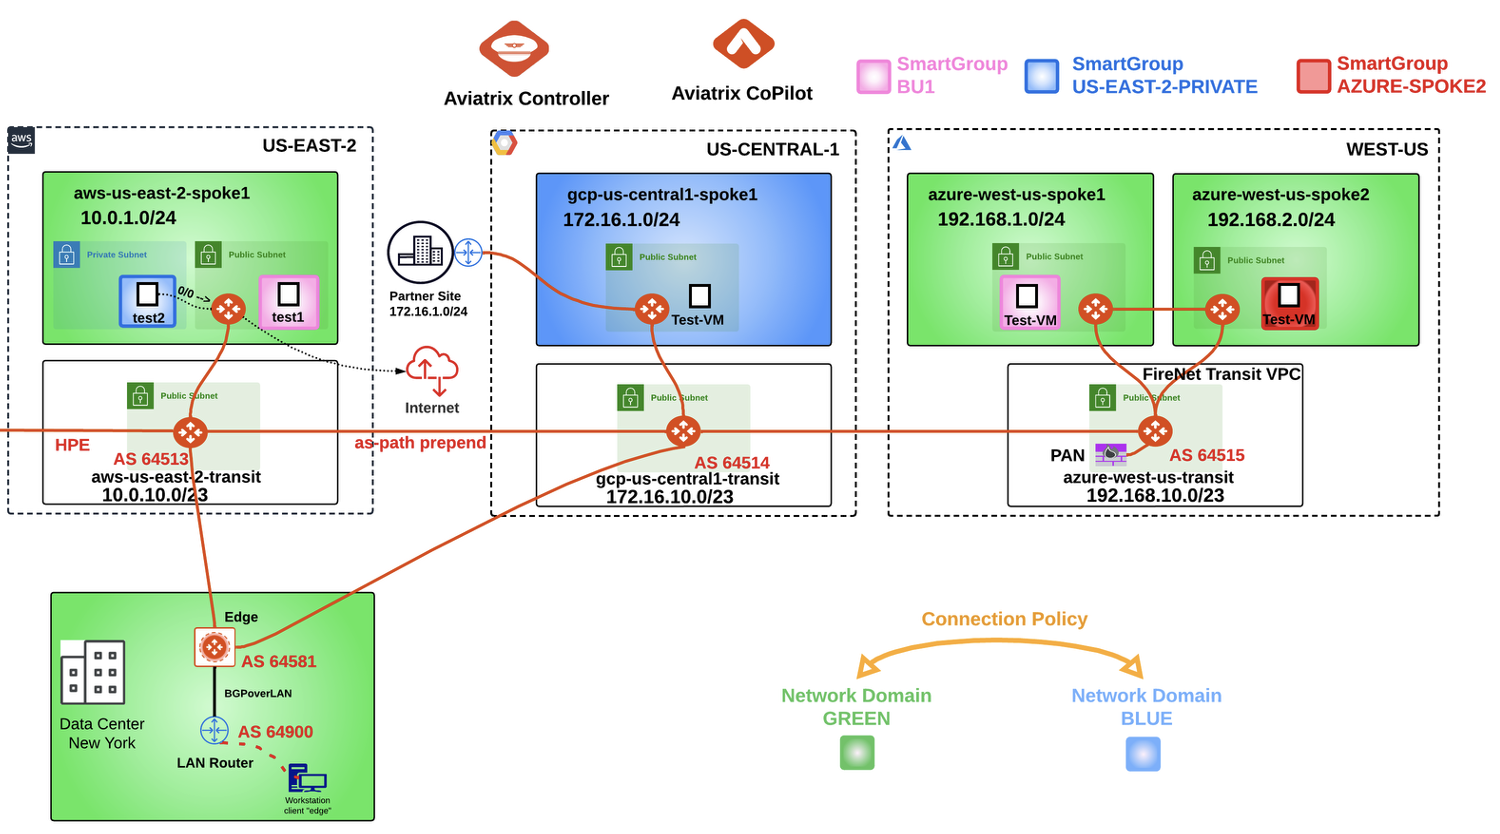
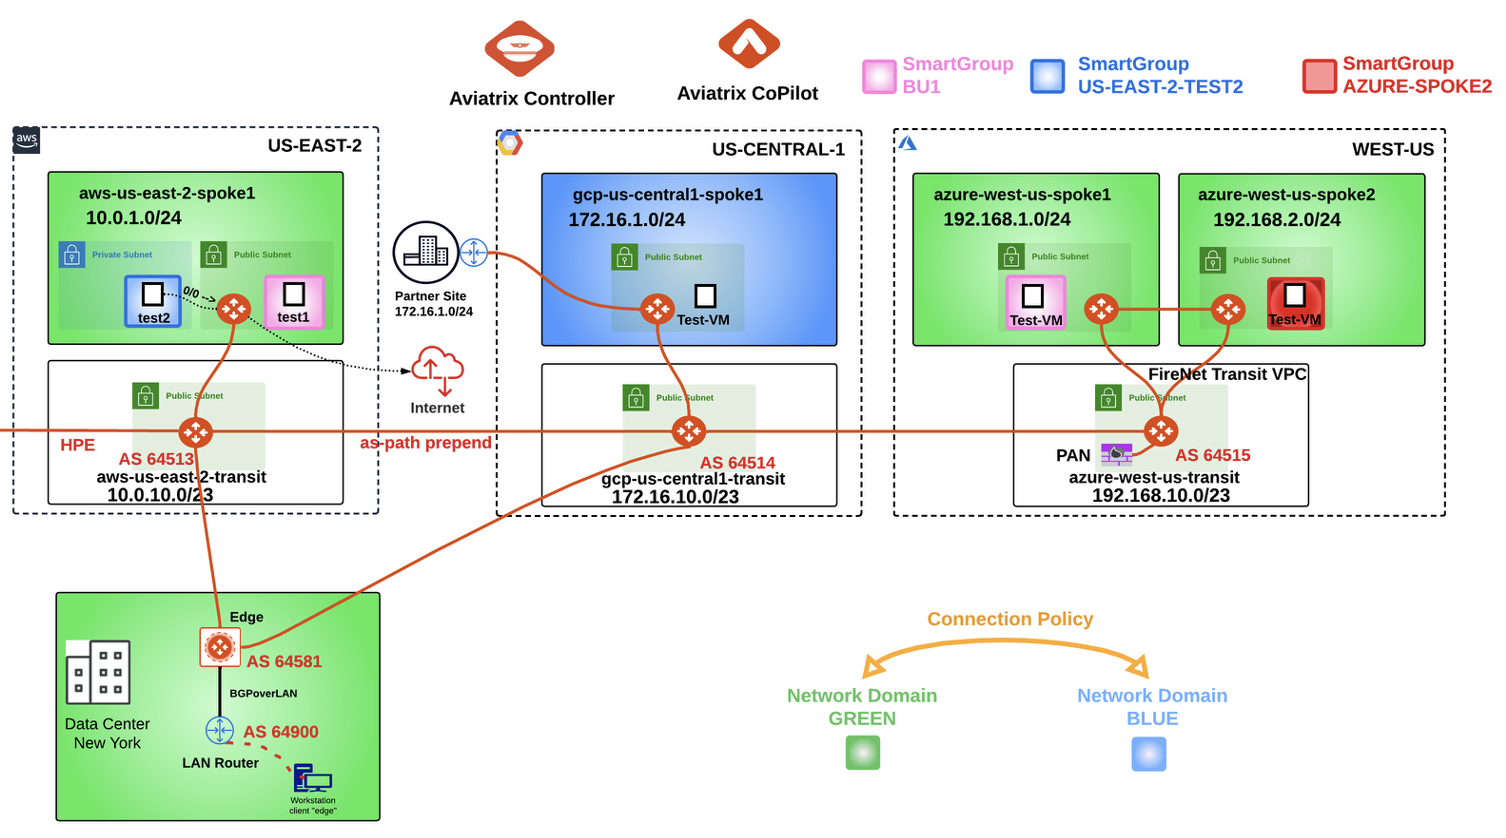
update for pro

diff --git a/ace_pro/docs/lab11.md b/ace_pro/docs/lab11.md
@@ -168,30 +168,9 @@ Ensure these parameters are entered in the pop-up window `"Create SmartGroup"`:
 
 Before clicking on **SAVE**, delete the empty `"Virtual Machines"` additional condition.
 
-```{figure} images/lab11-greenfieldneww45.png
----
-align: center
----
-New SG
-```
-
 Before clicking **SAVE**, discover which subnet matches the condition by turning on the `"Preview"` knob.
 
-```{figure} images/lab1081-smart6.png
----
-align: center
----
-us-east-2-private
-```
-
-```{figure} images/lab1080-smart6.png
----
-align: center
----
-Tag: Name
-```
-
-```{figure} images/lab10-smart6.png
+```{figure} images/lab10-smart611.png
 ---
 align: center
 ---
@@ -200,7 +179,7 @@ Resource Selection
 
 This time, CoPilot shows that the condition is matched by a specific subnet.
 
-- **aws-us-east2-spoke1-test2** in AZURE WEST-US SPOKE2.
+- **192.168.2.0/24** in AZURE WEST-US SPOKE2.
 
 ```{figure} images/lab10-smart7.png
 ---
@@ -209,7 +188,7 @@ align: center
 Resource that matches the condition
 ```
 
-At this stage, you have created logical containers that do not affect the existing routing domain, thanks to the `Connection Policy`  applied in **Lab 3**. Now, it's time to carefully define Distributed Cloud Firewall (DCF) rules to manage East-West traffic.
+At this stage, you’ve created logical containers to categorize instances or subnets. Now, define Distributed Cloud Firewall (DCF) rules to manage East-West traffic.
 
 Below is the current list of your DCF Rules within the **Distributed Cloud Firewall** section of your CoPilot:
 
@@ -220,7 +199,49 @@ align: center
 Complete DCF Rules List
 ```
 
-### 3.3 Connectivity Verification (ICMP) Using Gatus App
+### 3.5 Removal of the Connection Policy
+
+The gcp-us-central1-spoke1 VPC must remain isolated because, within this VPC, the Spoke gateway serves as the _landing Spoke_ for the `Site-to-Cloud` connection established with the partner router.
+
+```{figure} images/lab10-landing.png
+---
+height: 400px
+align: center
+---
+Landing Spoke GW
+```
+
+- Disable the `Connection Policy`:
+
+Navigate to **CoPilot > Networking > Network Segmentation > Network Domains**, and edit one of the two existing **Segments** by clicking the pencil icon on the right.
+
+```{figure} images/lab10-landing00.png
+---
+height: 400px
+align: center
+---
+Editing the Segment
+```
+
+```{figure} images/lab10-landing01.png
+---
+height: 400px
+align: center
+---
+Removal of the Connection Policy
+```
+
+This is what the topology will look like after this task:
+
+```{figure} images/lab10-landing03.png
+---
+height: 400px
+align: center
+---
+The New Topology
+```
+
+### 3.5 Connectivity Verification (ICMP) Using Gatus App
 
 Navigate to your POD Portal, locate the `Gatus widget`, and select **_aws-us-east-2-spoke1-test1_**.
 
@@ -244,7 +265,7 @@ aws-us-east-2-spoke1-test1
 
 The **East-West** traffic is disrupted. The instance **_aws-us-east-2-spoke1-test1_** can only reach **test2** due to intra-VPC traffic, which bypasses the Aviatrix Spoke Gateway (i.e. the **Enforcement Security Point**).
 
-### 3.4 Connectivity Verification (ICMP) Using SSH Client <span style='color:#33ECFF'>(BONUS)</span></summary>
+### 3.6 Connectivity Verification (ICMP) Using SSH Client <span style='color:#33ECFF'>(BONUS)</span></summary>
 
 Open a terminal window and SSH into the public IP of the instance **aws-us-east-2-spoke1-<span style='color:red'>test1</span>** (_NOT test2_). From there, ping the private IPs of each other instances to verify that the connectivity is indeed **broken**!
 
